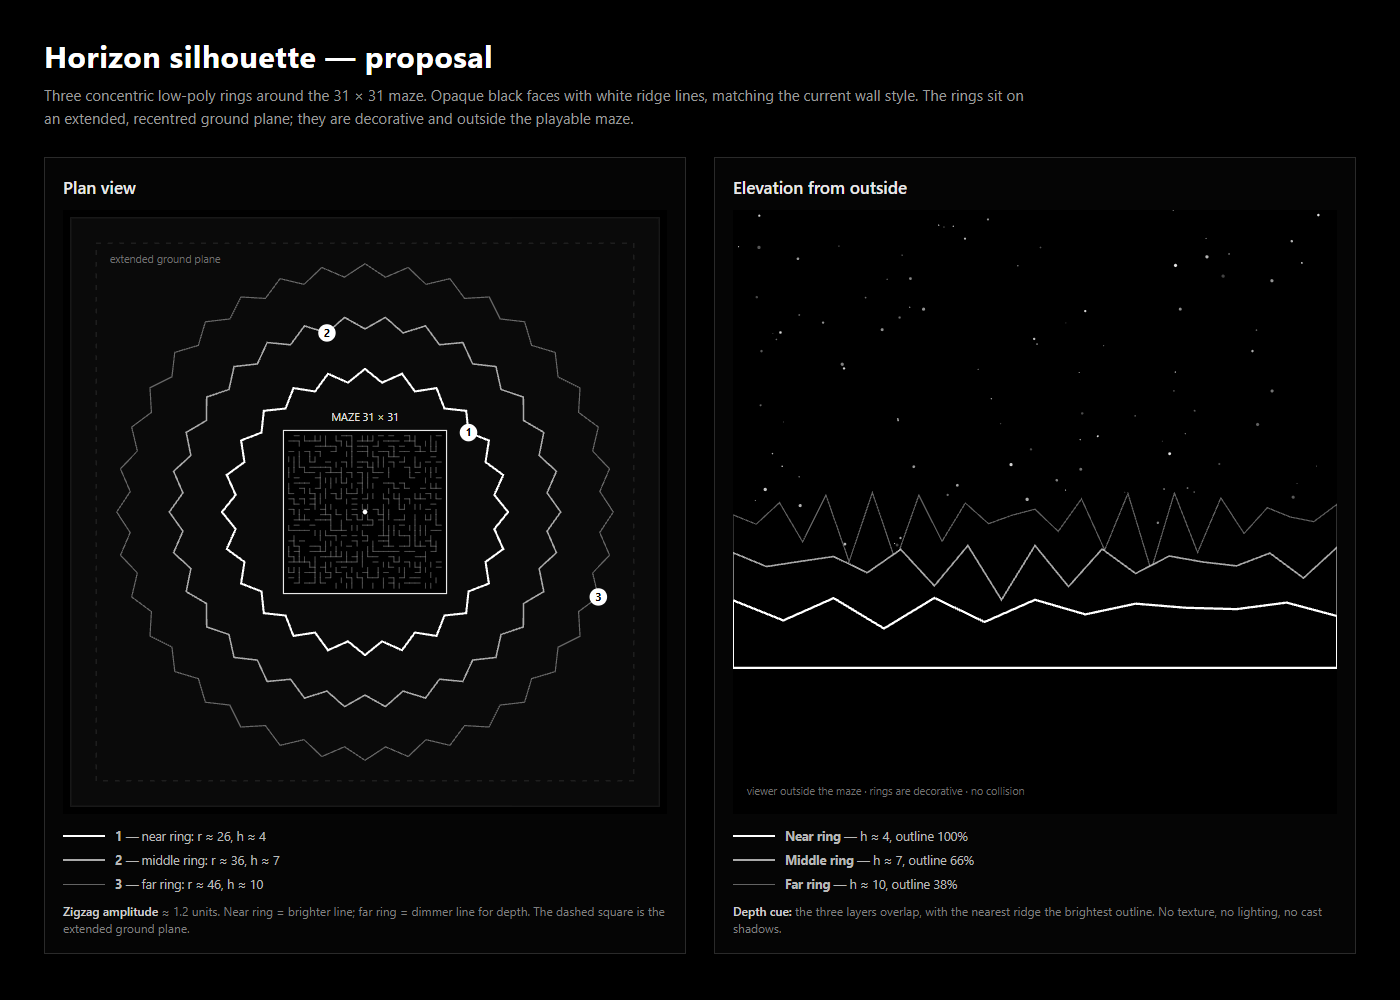
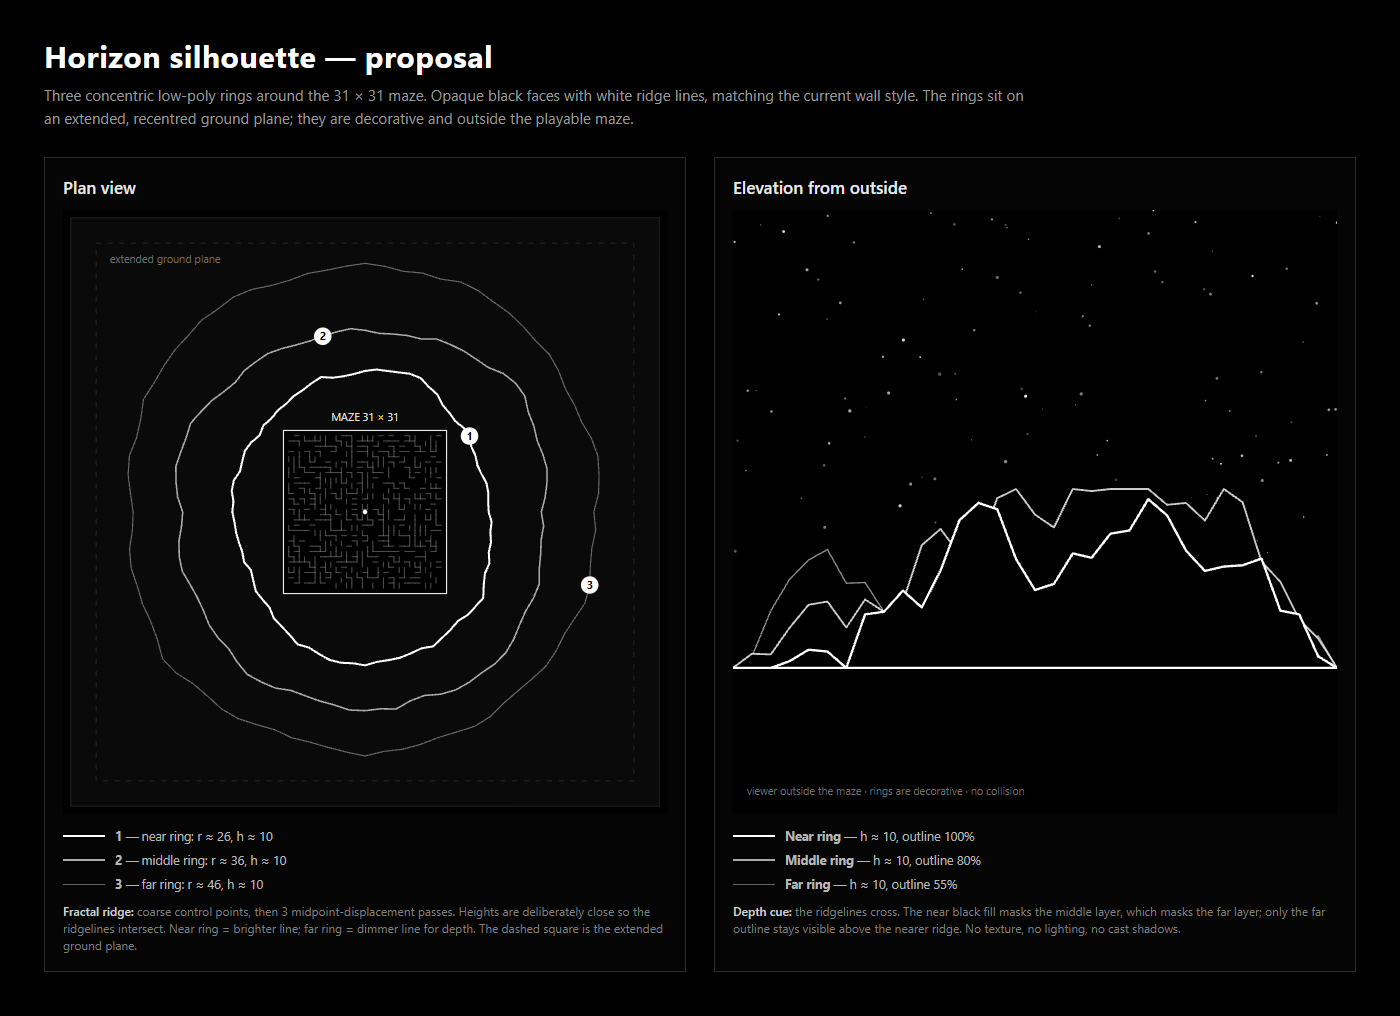
Refine the horizon mockup with fractal ridges
Replace the regular zigzag with coarse control points plus three midpoint-displacement passes, both around each ring in plan view and across each elevation ridge. Bring the three ridge altitudes together so the outlines cross and the near black fill masks the middle and far layers.

diff --git a/doc/mockups/README.md b/doc/mockups/README.md
@@ -7,10 +7,13 @@ Mockups for the next visual pass. They are references, not final assets.
 Three concentric low-poly mountain rings around the 31 × 31 maze:
 
 - Ring radii ≈ 26, 36, 46 world units from the maze centre `(15, 15)`.
-- Heights ≈ 4, 7, 10 units.
-- Zigzag amplitude ≈ 1.2 units.
+- Heights ≈ 10 units for all three, deliberately near-equal so the ridgelines cross.
+- Ridges are built from coarse control points followed by 3 midpoint-displacement
+  passes, not a regular zigzag.
 - Black faces with white ridge lines, matching the wall style.
 - The nearest ring has the brightest outline; farther rings are dimmer for depth.
+- The near black fill masks the middle layer, which masks the far layer; the crossed
+  white outlines make the fake-parallax effect readable.
 - A recentred/extended ground plane is required so the rings fit.
 
 ## `sky-gradients.png`
@@ -21,7 +24,9 @@ cats. The horizon glow sits at the bottom, behind the maze silhouette.
 
 ## Decisions still open
 
-1. Horizon: are the radii, heights, and zigzag amplitude close enough to build?
-2. Horizon: should the far ring be dimmer, or all outlines equal white?
-3. Sky: which six palettes should be assigned to the six cats?
-4. Sky: keep the optional rose/teal variants or use only the four requested families?
+1. Horizon: are the radii and the fractal detail level close enough to build?
+2. Horizon: are equal heights the right amount of intersection, or should the near ring
+   be slightly lower/higher?
+3. Horizon: should the far ring be dimmer, or all outlines equal white?
+4. Sky: which six palettes should be assigned to the six cats?
+5. Sky: keep the optional rose/teal variants or use only the four requested families?
